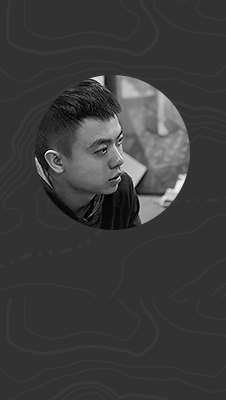
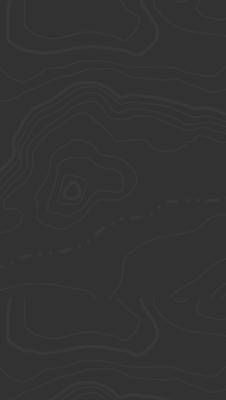
首页周达头像修改

Changed region(s): [[0.1549, 0.18, 0.8673, 0.6]]

diff --git a/app/webroot/index/css/index-min.css b/app/webroot/index/css/index-min.css
@@ -1,1 +1,1 @@
-.col-main{float:right;width:600px}.col-aside{float:left;width:226px}.slide-show .tab-btn,.show-item li b,.quick-nav li b,.books-more,.hall-more,.hall,.hall-con,.contact-info .contact-phone,.contact-info .contact-address,.contact-info .contact-qq,.contact-info .contact-path a,.contact-info .contact-path b,.opening-time ul,.guidance ul,.founder-works b,.environment .env-more b,.news-more a,.news-more b{background:url(/index/img/sprites.png) -9999px -9999px no-repeat}.slide-show{position:relative;overflow:hidden;-webkit-backface-visibility:hidden}.slide-show .tab-content{width:600px;height:400px;position:relative}.slide-show .tab-pannel{width:100%;height:100%}.slide-show .tab-btn{position:absolute;width:40px;height:40px;background-color:#fff;border-radius:20px;top:50%;margin-top:-20px;opacity:.4;-ms-filter:"alpha(Opacity=40)";-webkit-transition:all .25s linear 0s;-moz-transition:all .25s linear 0s;-o-transition:all .25s linear 0s;-ms-transition:all .25s linear 0s;transition:all .25s linear 0s}.slide-show .tab-btn-prev{left:30px;background-position:17px 15px}.slide-show .tab-btn-next{right:30px;background-position:17px -14px}.slide-show-hover .tab-btn{opacity:1;-ms-filter:"alpha(Opacity=100)"}.slide-show .tab-nav-con{position:absolute;bottom:30px;z-index:100;width:100%;text-align:center}.slide-show .tab-nav-wrapper{display:inline-block;overflow:hidden;position:relative;border-radius:5px;height:14px;padding:6px 18px}.slide-show .tab-nav{position:relative;z-index:110}.slide-show .tab-nav li{float:left;overflow:visible;margin-right:50px;position:relative}.slide-show .tab-nav .tab-nav-last{margin-right:0}.slide-show .tab-nav li a{position:relative;z-index:50;display:block;height:14px;width:14px;line-height:14px;border-radius:7px;background:#5c5c5c;-webkit-transition:all .1s linear 0s;-moz-transition:all .1s linear 0s;-o-transition:all .1s linear 0s;-ms-transition:all .1s linear 0s;transition:all .1s linear 0s;-webkit-backface-visibility:hidden}.slide-show .tab-nav li.lighted a{background:#fff}.slide-show .tab-nav-bar{position:absolute;top:10px;left:0;width:100%;z-index:40}.slide-show .tab-nav-bar-con{padding:0 30px;position:relative}.slide-show .tab-nav-bar-night{background:#5c5c5c;height:6px}.slide-show .tab-nav-bar-light{background:#fff;height:6px;position:absolute;left:30px;top:0;width:0;-webkit-transition:width .1s linear 0s;-moz-transition:width .1s linear 0s;-o-transition:width .1s linear 0s;-ms-transition:width .1s linear 0s;transition:width .1s linear 0s;-webkit-backface-visibility:hidden}.slide-show .tab-nav-mask{position:absolute;top:0;left:0;width:100%;height:26px;background:#000;opacity:.75;-ms-filter:"alpha(Opacity=75)"}.about-zd{font:14px/26px "Microsoft yahei","微软雅黑","黑体";margin-top:30px}.about-zd header{float:left;margin-right:20px;margin-top:6px;width:190px;height:77px}.about-zd hgroup{text-align:right;font-weight:700}.about-zd hgroup h2{font-size:26px;text-transform:uppercase}.about-zd hgroup p{font-size:16px;margin-top:2px;color:#e90011}.about-zd div{padding-top:1px;overflow:hidden;*zoom:1}.show-category{font:14px/2 "Microsoft yahei","微软雅黑","黑体";margin-top:10px}.show-item{float:left;box-shadow:0 0 5px #ccc;margin-right:12px;margin-top:10px;margin-bottom:20px;width:188px;background:#fff;border-bottom:5px solid #e90011}.show-con{border:1px solid #e0e0e0;border-bottom:0;padding:2px}.show-item h3{font-size:20px;vertical-align:bottom;padding:0 11px;font-weight:700}.show-item h3 em{font-size:14px;text-transform:uppercase;margin-left:5px;color:#a6a6a6;font-weight:400}.show-item-first{clear:both}.show-item-last{margin-right:0}.show-item-blue{border-bottom-color:#1290cb}.show-image{width:100%;height:236px;text-align:center;overflow:hidden}.show-item ul{padding:0 11px 6px 22px;margin-top:3px;min-height:56px}.show-item-tall ul{min-height:112px}.show-item li{position:relative}.show-item li a{display:inline-block;padding-left:11px;*display:inline;*zoom:1}.show-item li b{position:absolute;left:0;top:10px;background-position:-78px -114px;width:4px;height:8px;-webkit-transition:left .1s linear 0s;-moz-transition:left .1s linear 0s;-o-transition:left .1s linear 0s;-ms-transition:left .1s linear 0s;transition:left .1s linear 0s}.show-item li a:hover{text-decoration:none;color:#e90011}.show-item li a:hover b{background-position:-78px -140px;left:3px}.show-image a{opacity:1;-ms-filter:"alpha(Opacity=100)";-webkit-transition:opacity .1s linear 0s;-moz-transition:opacity .1s linear 0s;-o-transition:opacity .1s linear 0s;-ms-transition:opacity .1s linear 0s;transition:opacity .1s linear 0s}.show-image a:hover{opacity:.8;-ms-filter:"alpha(Opacity=80)"}.class-group{font:14px/26px "Microsoft yahei","微软雅黑","黑体"}.class-group h2{font-size:20px;line-height:2;font-weight:700}.class-con{margin-top:4px;position:relative}.class-desc{width:400px;margin-bottom:38px}.class-side{position:absolute;left:415px;top:30px;width:185px;overflow:hidden}.teachers{margin-top:35px}.teachers h2{font:20px/2 "Microsoft yahei","微软雅黑","黑体";font-weight:700}.teachers-con{margin-top:10px;font-size:12px;line-height:22px;text-align:center}.teachers-con li{float:left}.other-teachers{margin-top:6px}.other-teachers li{margin-right:5px}.teacher-link{display:block;position:relative}.teacher-image{display:block;overflow:hidden}.teacher-name{display:block;font-size:14px;font-weight:700;margin-top:5px;margin-bottom:5px}.teacher-school,.teacher-title{color:#666}.teacher-link em{display:block;width:109px;height:109px;border:3px solid #e90011;position:absolute;top:0;left:0;opacity:0;-ms-filter:"alpha(Opacity=0)"}.main-teachers .teacher-image{border-top:5px solid #e90011;width:120px;height:240px}.main-teachers .teacher-even .teacher-image{border-top:0;border-bottom:5px solid #e90011;padding-top:67px}.other-teachers .teacher-image{width:115px;height:115px}.teacher-link{opacity:1;-ms-filter:"alpha(Opacity=100)";-webkit-transition:all .1s linear 0s;-moz-transition:all .1s linear 0s;-o-transition:all .1s linear 0s;-ms-transition:all .1s linear 0s;transition:all .1s linear 0s}.teacher-link em{-webkit-transition:all .1s linear 0s;-moz-transition:all .1s linear 0s;-o-transition:all .1s linear 0s;-ms-transition:all .1s linear 0s;transition:all .1s linear 0s}.teacher-link:hover{opacity:.8;color:#e90011;text-decoration:none;-ms-filter:"alpha(Opacity=80)"}.teacher-link:hover em{opacity:1;-ms-filter:"alpha(Opacity=100)"}.environment{margin-top:25px;font:20px/2 "Microsoft yahei","微软雅黑","黑体"}.environment h2{font-weight:700}.environment-con{margin-top:10px;position:relative}.environment li{width:150px;height:150px;overflow:hidden;float:left;text-align:center;line-height:150px;color:#fff}.environment li a{display:block;width:100%;height:100%;overflow:hidden;color:#fff}.environment .env-long{height:300px;line-height:300px}.environment .env-wide{width:300px}.environment .env-desc{background:#e90011}.environment .env-desc:hover{background:#ec1f2e}.environment .env-more{line-height:30px}.environment .env-more strong{display:block;margin-top:53px}.environment .env-more em{position:relative;padding-left:47px;text-align:left;font-size:14px;line-height:24px;display:block;text-transform:uppercase}.environment .env-more b{position:absolute;width:15px;height:10px;overflow:hidden;background-position:0 -371px;right:36px;top:7px;-webkit-transition:right .1s linear 0s;-moz-transition:right .1s linear 0s;-o-transition:right .1s linear 0s;-ms-transition:right .1s linear 0s;transition:right .1s linear 0s}.environment li a:hover{color:#fff;text-decoration:none}.environment li a:hover b{right:33px}.environment .env-image{opacity:1;-ms-filter:"alpha(Opacity=100)";-webkit-transition:opacity .1s linear 0s;-moz-transition:opacity .1s linear 0s;-o-transition:opacity .1s linear 0s;-ms-transition:opacity .1s linear 0s;transition:opacity .1s linear 0s}.environment .env-image:hover{opacity:.7;-ms-filter:"alpha(Opacity=70)"}.books{margin-top:30px;position:relative}.books h2{font:20px/2 "Microsoft yahei","微软雅黑","黑体";font-weight:700}.books-con{margin-top:10px;width:600px;height:213px;overflow:hidden;position:relative}.books ul{width:617px;height:213px;position:absolute;left:0;top:0}.books li{float:left;width:135px;height:211px;overflow:hidden;border:1px solid #d2d2d2;margin-right:17px;border-radius:2px;box-shadow:0 0 5px #ccc;position:relative}.books .book-last{margin-right:0}.books li span{opacity:1;display:block;border:1px solid #f2f2f2;padding:3px;overflow:hidden;-ms-filter:"alpha(Opacity=100)";-webkit-transition:opacity .1s linear 0s;-moz-transition:opacity .1s linear 0s;-o-transition:opacity .1s linear 0s;-ms-transition:opacity .1s linear 0s;transition:opacity .1s linear 0s}.books li span:hover{opacity:.8;-ms-filter:"alpha(Opacity=80)"}.books-more{position:absolute;width:68px;height:12px;text-indent:-9999px;top:16px;right:0;background-position:0 -114px}.books-more:hover{background-position:0 -136px}.hall{position:relative;margin-top:20px;font:18px/32px "Microsoft yahei","微软雅黑","黑体";padding:50px 30px 0;background-position:0 -710px}.hall h2{display:none}.hall-con{padding:30px 38px 80px;background-color:#fff;background-position:-60px 296px;position:relative}.hall-list{height:256px;overflow:hidden;position:relative}.hall-list ul{position:absolute;width:100%}.hall-mask-up{background:url(/index/img/mask-up.png) 0 0 no-repeat;width:473px;height:55px;position:absolute;left:38px;top:0}.hall-mask{background:url(/index/img/mask.png) 0 0 no-repeat;width:473px;height:55px;position:absolute;left:38px;bottom:50px}.hall-more{position:absolute;width:68px;height:12px;text-indent:-9999px;top:16px;right:0;background-position:0 -114px}.hall-more:hover{background-position:0 -136px}.contact{font:14px/22px "Microsoft yahei","微软雅黑","黑体"}.contact h2{font-size:20px;line-height:2;font-weight:700}.contact-con{margin-top:15px}.contact-map{float:left;width:258px;height:178px;padding:3px;background:#fff;margin-right:32px;box-shadow:0 0 2px #ccc;position:relative}.contact-click{position:absolute;font-size:12px;right:8px;bottom:5px}.contact-info{overflow:hidden;*zoom:1}.contact-info p{padding-left:32px;margin-bottom:8px}.contact-info .contact-phone{background-position:0 -394px}.contact-info .contact-address{background-position:-421px -158px}.contact-info .contact-qq{background-position:0 -157px}.contact-info .contact-path{padding-top:16px}.contact-info .contact-path a{opacity:1;float:right;width:102px;padding-left:16px;height:28px;line-height:28px;color:#fff;background-position:0 -255px;position:relative;-ms-filter:"alpha(Opacity=100)";-webkit-transition:opacity .1s linear 0s;-moz-transition:opacity .1s linear 0s;-o-transition:opacity .1s linear 0s;-ms-transition:opacity .1s linear 0s;transition:opacity .1s linear 0s}.contact-info .contact-path b{position:absolute;width:6px;height:10px;overflow:hidden;background-position:0 -341px;top:9px;right:12px;-webkit-transition:right .1s linear 0s;-moz-transition:right .1s linear 0s;-o-transition:right .1s linear 0s;-ms-transition:right .1s linear 0s;transition:right .1s linear 0s}.contact-info .contact-path a:hover{text-decoration:none;color:#fff;opacity:.8;-ms-filter:"alpha(Opacity=80)"}.contact-info .contact-path a:hover b{right:9px}.weibo-show{background:#fff;box-shadow:0 0 10px #ccc;height:400px;overflow:hidden}.quick-nav{margin-top:22px;font:14px/28px "Microsoft yahei","微软雅黑","黑体"}.quick-nav h3{font-size:16px;line-height:18px}.quick-nav h3 strong{font-weight:700;display:block}.quick-nav h3 em{text-transform:uppercase;display:block;color:#a6a6a6;font-size:14px}.quick-nav ul{padding-left:62px;margin-top:9px;min-height:70px}.quick-nav li{position:relative}.quick-nav li a{display:inline-block;padding-left:11px;*display:inline;*zoom:1}.quick-nav li b{position:absolute;left:0;top:10px;background-position:-78px -114px;width:4px;height:8px;-webkit-transition:left .1s linear 0s;-moz-transition:left .1s linear 0s;-o-transition:left .1s linear 0s;-ms-transition:left .1s linear 0s;transition:left .1s linear 0s}.quick-nav li a:hover{text-decoration:none;color:#e90011}.quick-nav li a:hover b{background-position:-78px -140px;left:3px}.opening-time{margin-top:36px}.opening-time ul{background-position:-128px -248px}.guidance ul{background-position:-421px -248px}.founder{background:#323232 url(/index/img/founder.png) 0 0 no-repeat;color:#fff;padding:12px 15px 0;height:388px;margin-top:13px}.founder header{font-family:"Microsoft yahei","微软雅黑","黑体";text-align:center}.founder hgroup h3{font-size:22px;line-height:30px}.founder hgroup p{font-size:14px;line-height:22px}.founder-image{margin-top:15px;height:156px;width:156px;margin:0 auto;display:block;opacity:1;-ms-filter:"alpha(Opacity=100)";-webkit-transition:all .1s linear 0s;-moz-transition:all .1s linear 0s;-o-transition:all .1s linear 0s;-ms-transition:all .1s linear 0s;transition:all .1s linear 0s}.founder-image:hover{opacity:.8;-ms-filter:"alpha(Opacity=80)"}.founder-desc{text-indent:2em;line-height:22px;margin-top:18px}.founder-works{display:block;position:relative;background-color:#e90011;width:100px;height:36px;line-height:36px;margin:23px auto 0;padding-left:16px;font-size:16px;font-family:"Microsoft yahei","微软雅黑","黑体";color:#fff;-webkit-transition:all .1s linear 0s;-moz-transition:all .1s linear 0s;-o-transition:all .1s linear 0s;-ms-transition:all .1s linear 0s;transition:all .1s linear 0s}.founder-works b{position:absolute;width:15px;height:10px;overflow:hidden;background-position:0 -371px;right:13px;top:13px;-webkit-transition:right .1s linear 0s;-moz-transition:right .1s linear 0s;-o-transition:right .1s linear 0s;-ms-transition:right .1s linear 0s;transition:right .1s linear 0s}.founder-works:hover{text-decoration:none;color:#fff;background-color:#ec1f2e}.founder-works:hover b{right:10px}.news li{margin-top:30px;padding-bottom:10px}.news img{max-width:100%;width:100%}.news-image{display:block;-webkit-transition:all .1s linear 0s;-moz-transition:all .1s linear 0s;-o-transition:all .1s linear 0s;-ms-transition:all .1s linear 0s;transition:all .1s linear 0s}.news-title{margin-top:8px;font-weight:700;display:block}.news-image:hover{text-decoration:none;color:#e90011;opacity:.8;-ms-filter:"alpha(Opacity=80)"}.news-date{color:#787878}.news-desc{margin-top:7px;color:#787878}.news-more{margin-top:16px}.news-more a{opacity:1;-ms-filter:"alpha(Opacity=80)";float:right;width:90px;padding-left:12px;height:28px;line-height:28px;position:relative;font-size:16px;color:#fff;font-family:"Microsoft yahei","微软雅黑","黑体";text-transform:uppercase;background-color:#e90011;background-position:0 -293px;-webkit-transition:opacity .1s linear 0s;-moz-transition:opacity .1s linear 0s;-o-transition:opacity .1s linear 0s;-ms-transition:opacity .1s linear 0s;transition:opacity .1s linear 0s}.news-more b{position:absolute;width:6px;height:10px;overflow:hidden;background-position:0 -341px;top:9px;right:12px;-webkit-transition:right .1s linear 0s;-moz-transition:right .1s linear 0s;-o-transition:right .1s linear 0s;-ms-transition:right .1s linear 0s;transition:right .1s linear 0s}.news-more a:hover{text-decoration:none;color:#fff;opacity:.8;-ms-filter:"alpha(Opacity=80)"}.news-more a:hover b{right:9px}
+.col-main{float:right;width:600px}.col-aside{float:left;width:226px}.slide-show .tab-btn,.show-item li b,.quick-nav li b,.books-more,.hall-more,.hall,.hall-con,.contact-info .contact-phone,.contact-info .contact-address,.contact-info .contact-qq,.contact-info .contact-path a,.contact-info .contact-path b,.opening-time ul,.guidance ul,.founder-works b,.environment .env-more b,.news-more a,.news-more b{background:url(/index/img/sprites.png) -9999px -9999px no-repeat}.slide-show{position:relative;overflow:hidden;-webkit-backface-visibility:hidden}.slide-show .tab-content{width:600px;height:400px;position:relative}.slide-show .tab-pannel{width:100%;height:100%}.slide-show .tab-btn{position:absolute;width:40px;height:40px;background-color:#fff;border-radius:20px;top:50%;margin-top:-20px;opacity:.4;-ms-filter:"alpha(Opacity=40)";-webkit-transition:all .25s linear 0s;-moz-transition:all .25s linear 0s;-o-transition:all .25s linear 0s;-ms-transition:all .25s linear 0s;transition:all .25s linear 0s}.slide-show .tab-btn-prev{left:30px;background-position:17px 15px}.slide-show .tab-btn-next{right:30px;background-position:17px -14px}.slide-show-hover .tab-btn{opacity:1;-ms-filter:"alpha(Opacity=100)"}.slide-show .tab-nav-con{position:absolute;bottom:30px;z-index:100;width:100%;text-align:center}.slide-show .tab-nav-wrapper{display:inline-block;overflow:hidden;position:relative;border-radius:5px;height:14px;padding:6px 18px}.slide-show .tab-nav{position:relative;z-index:110}.slide-show .tab-nav li{float:left;overflow:visible;margin-right:50px;position:relative}.slide-show .tab-nav .tab-nav-last{margin-right:0}.slide-show .tab-nav li a{position:relative;z-index:50;display:block;height:14px;width:14px;line-height:14px;border-radius:7px;background:#5c5c5c;-webkit-transition:all .1s linear 0s;-moz-transition:all .1s linear 0s;-o-transition:all .1s linear 0s;-ms-transition:all .1s linear 0s;transition:all .1s linear 0s;-webkit-backface-visibility:hidden}.slide-show .tab-nav li.lighted a{background:#fff}.slide-show .tab-nav-bar{position:absolute;top:10px;left:0;width:100%;z-index:40}.slide-show .tab-nav-bar-con{padding:0 30px;position:relative}.slide-show .tab-nav-bar-night{background:#5c5c5c;height:6px}.slide-show .tab-nav-bar-light{background:#fff;height:6px;position:absolute;left:30px;top:0;width:0;-webkit-transition:width .1s linear 0s;-moz-transition:width .1s linear 0s;-o-transition:width .1s linear 0s;-ms-transition:width .1s linear 0s;transition:width .1s linear 0s;-webkit-backface-visibility:hidden}.slide-show .tab-nav-mask{position:absolute;top:0;left:0;width:100%;height:26px;background:#000;opacity:.75;-ms-filter:"alpha(Opacity=75)"}.about-zd{font:14px/26px "Microsoft yahei","微软雅黑","黑体";margin-top:30px}.about-zd header{float:left;margin-right:20px;margin-top:6px;width:190px;height:77px}.about-zd hgroup{text-align:right;font-weight:700}.about-zd hgroup h2{font-size:26px;text-transform:uppercase}.about-zd hgroup p{font-size:16px;margin-top:2px;color:#e90011}.about-zd div{padding-top:1px;overflow:hidden;*zoom:1}.show-category{font:14px/2 "Microsoft yahei","微软雅黑","黑体";margin-top:10px}.show-item{float:left;box-shadow:0 0 5px #ccc;margin-right:12px;margin-top:10px;margin-bottom:20px;width:188px;background:#fff;border-bottom:5px solid #e90011}.show-con{border:1px solid #e0e0e0;border-bottom:0;padding:2px}.show-item h3{font-size:20px;vertical-align:bottom;padding:0 11px;font-weight:700}.show-item h3 em{font-size:14px;text-transform:uppercase;margin-left:5px;color:#a6a6a6;font-weight:400}.show-item-first{clear:both}.show-item-last{margin-right:0}.show-item-blue{border-bottom-color:#1290cb}.show-image{width:100%;height:236px;text-align:center;overflow:hidden}.show-item ul{padding:0 11px 6px 22px;margin-top:3px;min-height:56px}.show-item-tall ul{min-height:112px}.show-item li{position:relative}.show-item li a{display:inline-block;padding-left:11px;*display:inline;*zoom:1}.show-item li b{position:absolute;left:0;top:10px;background-position:-78px -114px;width:4px;height:8px;-webkit-transition:left .1s linear 0s;-moz-transition:left .1s linear 0s;-o-transition:left .1s linear 0s;-ms-transition:left .1s linear 0s;transition:left .1s linear 0s}.show-item li a:hover{text-decoration:none;color:#e90011}.show-item li a:hover b{background-position:-78px -140px;left:3px}.show-image a{opacity:1;-ms-filter:"alpha(Opacity=100)";-webkit-transition:opacity .1s linear 0s;-moz-transition:opacity .1s linear 0s;-o-transition:opacity .1s linear 0s;-ms-transition:opacity .1s linear 0s;transition:opacity .1s linear 0s}.show-image a:hover{opacity:.8;-ms-filter:"alpha(Opacity=80)"}.class-group{font:14px/26px "Microsoft yahei","微软雅黑","黑体"}.class-group h2{font-size:20px;line-height:2;font-weight:700}.class-con{margin-top:4px;position:relative}.class-desc{width:400px;margin-bottom:38px}.class-side{position:absolute;left:415px;top:30px;width:185px;overflow:hidden}.teachers{margin-top:35px}.teachers h2{font:20px/2 "Microsoft yahei","微软雅黑","黑体";font-weight:700}.teachers-con{margin-top:10px;font-size:12px;line-height:22px;text-align:center}.teachers-con li{float:left}.other-teachers{margin-top:6px}.other-teachers li{margin-right:5px}.teacher-link{display:block;position:relative}.teacher-image{display:block;overflow:hidden}.teacher-name{display:block;font-size:14px;font-weight:700;margin-top:5px;margin-bottom:5px}.teacher-school,.teacher-title{color:#666}.teacher-link em{display:block;width:109px;height:109px;border:3px solid #e90011;position:absolute;top:0;left:0;opacity:0;-ms-filter:"alpha(Opacity=0)"}.main-teachers .teacher-image{border-top:5px solid #e90011;width:120px;height:240px}.main-teachers .teacher-even .teacher-image{border-top:0;border-bottom:5px solid #e90011;padding-top:67px}.other-teachers .teacher-image{width:115px;height:115px}.teacher-link{opacity:1;-ms-filter:"alpha(Opacity=100)";-webkit-transition:all .1s linear 0s;-moz-transition:all .1s linear 0s;-o-transition:all .1s linear 0s;-ms-transition:all .1s linear 0s;transition:all .1s linear 0s}.teacher-link em{-webkit-transition:all .1s linear 0s;-moz-transition:all .1s linear 0s;-o-transition:all .1s linear 0s;-ms-transition:all .1s linear 0s;transition:all .1s linear 0s}.teacher-link:hover{opacity:.8;color:#e90011;text-decoration:none;-ms-filter:"alpha(Opacity=80)"}.teacher-link:hover em{opacity:1;-ms-filter:"alpha(Opacity=100)"}.environment{margin-top:25px;font:20px/2 "Microsoft yahei","微软雅黑","黑体"}.environment h2{font-weight:700}.environment-con{margin-top:10px;position:relative}.environment li{width:150px;height:150px;overflow:hidden;float:left;text-align:center;line-height:150px;color:#fff}.environment li a{display:block;width:100%;height:100%;overflow:hidden;color:#fff}.environment .env-long{height:300px;line-height:300px}.environment .env-wide{width:300px}.environment .env-desc{background:#e90011}.environment .env-desc:hover{background:#ec1f2e}.environment .env-more{line-height:30px}.environment .env-more strong{display:block;margin-top:53px}.environment .env-more em{position:relative;padding-left:47px;text-align:left;font-size:14px;line-height:24px;display:block;text-transform:uppercase}.environment .env-more b{position:absolute;width:15px;height:10px;overflow:hidden;background-position:0 -371px;right:36px;top:7px;-webkit-transition:right .1s linear 0s;-moz-transition:right .1s linear 0s;-o-transition:right .1s linear 0s;-ms-transition:right .1s linear 0s;transition:right .1s linear 0s}.environment li a:hover{color:#fff;text-decoration:none}.environment li a:hover b{right:33px}.environment .env-image{opacity:1;-ms-filter:"alpha(Opacity=100)";-webkit-transition:opacity .1s linear 0s;-moz-transition:opacity .1s linear 0s;-o-transition:opacity .1s linear 0s;-ms-transition:opacity .1s linear 0s;transition:opacity .1s linear 0s}.environment .env-image:hover{opacity:.7;-ms-filter:"alpha(Opacity=70)"}.books{margin-top:30px;position:relative}.books h2{font:20px/2 "Microsoft yahei","微软雅黑","黑体";font-weight:700}.books-con{margin-top:10px;width:600px;height:213px;overflow:hidden;position:relative}.books ul{width:617px;height:213px;position:absolute;left:0;top:0}.books li{float:left;width:135px;height:211px;overflow:hidden;border:1px solid #d2d2d2;margin-right:17px;border-radius:2px;box-shadow:0 0 5px #ccc;position:relative}.books .book-last{margin-right:0}.books li span{opacity:1;display:block;border:1px solid #f2f2f2;padding:3px;overflow:hidden;-ms-filter:"alpha(Opacity=100)";-webkit-transition:opacity .1s linear 0s;-moz-transition:opacity .1s linear 0s;-o-transition:opacity .1s linear 0s;-ms-transition:opacity .1s linear 0s;transition:opacity .1s linear 0s}.books li span:hover{opacity:.8;-ms-filter:"alpha(Opacity=80)"}.books-more{position:absolute;width:68px;height:12px;text-indent:-9999px;top:16px;right:0;background-position:0 -114px}.books-more:hover{background-position:0 -136px}.hall{position:relative;margin-top:20px;font:18px/32px "Microsoft yahei","微软雅黑","黑体";padding:50px 30px 0;background-position:0 -710px}.hall h2{display:none}.hall-con{padding:30px 38px 80px;background-color:#fff;background-position:-60px 296px;position:relative}.hall-list{height:256px;overflow:hidden;position:relative}.hall-list ul{position:absolute;width:100%}.hall-mask-up{background:url(/index/img/mask-up.png) 0 0 no-repeat;width:473px;height:55px;position:absolute;left:38px;top:0}.hall-mask{background:url(/index/img/mask.png) 0 0 no-repeat;width:473px;height:55px;position:absolute;left:38px;bottom:50px}.hall-more{position:absolute;width:68px;height:12px;text-indent:-9999px;top:16px;right:0;background-position:0 -114px}.hall-more:hover{background-position:0 -136px}.contact{font:14px/22px "Microsoft yahei","微软雅黑","黑体"}.contact h2{font-size:20px;line-height:2;font-weight:700}.contact-con{margin-top:15px}.contact-map{float:left;width:258px;height:178px;padding:3px;background:#fff;margin-right:32px;box-shadow:0 0 2px #ccc;position:relative}.contact-click{position:absolute;font-size:12px;right:8px;bottom:5px}.contact-info{overflow:hidden;*zoom:1}.contact-info p{padding-left:32px;margin-bottom:8px}.contact-info .contact-phone{background-position:0 -394px}.contact-info .contact-address{background-position:-421px -158px}.contact-info .contact-qq{background-position:0 -157px}.contact-info .contact-path{padding-top:16px}.contact-info .contact-path a{opacity:1;float:right;width:102px;padding-left:16px;height:28px;line-height:28px;color:#fff;background-position:0 -255px;position:relative;-ms-filter:"alpha(Opacity=100)";-webkit-transition:opacity .1s linear 0s;-moz-transition:opacity .1s linear 0s;-o-transition:opacity .1s linear 0s;-ms-transition:opacity .1s linear 0s;transition:opacity .1s linear 0s}.contact-info .contact-path b{position:absolute;width:6px;height:10px;overflow:hidden;background-position:0 -341px;top:9px;right:12px;-webkit-transition:right .1s linear 0s;-moz-transition:right .1s linear 0s;-o-transition:right .1s linear 0s;-ms-transition:right .1s linear 0s;transition:right .1s linear 0s}.contact-info .contact-path a:hover{text-decoration:none;color:#fff;opacity:.8;-ms-filter:"alpha(Opacity=80)"}.contact-info .contact-path a:hover b{right:9px}.weibo-show{background:#fff;box-shadow:0 0 10px #ccc;height:400px;overflow:hidden}.quick-nav{margin-top:22px;font:14px/28px "Microsoft yahei","微软雅黑","黑体"}.quick-nav h3{font-size:16px;line-height:18px}.quick-nav h3 strong{font-weight:700;display:block}.quick-nav h3 em{text-transform:uppercase;display:block;color:#a6a6a6;font-size:14px}.quick-nav ul{padding-left:62px;margin-top:9px;min-height:70px}.quick-nav li{position:relative}.quick-nav li a{display:inline-block;padding-left:11px;*display:inline;*zoom:1}.quick-nav li b{position:absolute;left:0;top:10px;background-position:-78px -114px;width:4px;height:8px;-webkit-transition:left .1s linear 0s;-moz-transition:left .1s linear 0s;-o-transition:left .1s linear 0s;-ms-transition:left .1s linear 0s;transition:left .1s linear 0s}.quick-nav li a:hover{text-decoration:none;color:#e90011}.quick-nav li a:hover b{background-position:-78px -140px;left:3px}.opening-time{margin-top:36px}.opening-time ul{background-position:-128px -248px}.guidance ul{background-position:-421px -248px}.founder{background:#323232 url(/index/img/founder.png) 0 0 no-repeat;color:#fff;padding:12px 15px 0;height:388px;margin-top:13px}.founder header{font-family:"Microsoft yahei","微软雅黑","黑体";text-align:center}.founder hgroup h3{font-size:22px;line-height:30px}.founder hgroup p{font-size:14px;line-height:22px}.founder-image{margin-top:16px;height:155px;width:155px;text-decoration:none;background:url(/index/img/zdavartar.png) 0 0 no-repeat;margin:0 auto;display:block;opacity:1;-ms-filter:"alpha(Opacity=100)";-webkit-transition:all .1s linear 0s;-moz-transition:all .1s linear 0s;-o-transition:all .1s linear 0s;-ms-transition:all .1s linear 0s;transition:all .1s linear 0s}.founder-image:hover{text-decoration:none;opacity:.8;-ms-filter:"alpha(Opacity=80)"}.founder-desc{text-indent:2em;line-height:22px;margin-top:19px}.founder-works{display:block;position:relative;background-color:#e90011;width:100px;height:36px;line-height:36px;margin:23px auto 0;padding-left:16px;font-size:16px;font-family:"Microsoft yahei","微软雅黑","黑体";color:#fff;-webkit-transition:all .1s linear 0s;-moz-transition:all .1s linear 0s;-o-transition:all .1s linear 0s;-ms-transition:all .1s linear 0s;transition:all .1s linear 0s}.founder-works b{position:absolute;width:15px;height:10px;overflow:hidden;background-position:0 -371px;right:13px;top:13px;-webkit-transition:right .1s linear 0s;-moz-transition:right .1s linear 0s;-o-transition:right .1s linear 0s;-ms-transition:right .1s linear 0s;transition:right .1s linear 0s}.founder-works:hover{text-decoration:none;color:#fff;background-color:#ec1f2e}.founder-works:hover b{right:10px}.news li{margin-top:30px;padding-bottom:10px}.news img{max-width:100%;width:100%}.news-image{display:block;-webkit-transition:all .1s linear 0s;-moz-transition:all .1s linear 0s;-o-transition:all .1s linear 0s;-ms-transition:all .1s linear 0s;transition:all .1s linear 0s}.news-title{margin-top:8px;font-weight:700;display:block}.news-image:hover{text-decoration:none;color:#e90011;opacity:.8;-ms-filter:"alpha(Opacity=80)"}.news-date{color:#787878}.news-desc{margin-top:7px;color:#787878}.news-more{margin-top:16px}.news-more a{opacity:1;-ms-filter:"alpha(Opacity=80)";float:right;width:90px;padding-left:12px;height:28px;line-height:28px;position:relative;font-size:16px;color:#fff;font-family:"Microsoft yahei","微软雅黑","黑体";text-transform:uppercase;background-color:#e90011;background-position:0 -293px;-webkit-transition:opacity .1s linear 0s;-moz-transition:opacity .1s linear 0s;-o-transition:opacity .1s linear 0s;-ms-transition:opacity .1s linear 0s;transition:opacity .1s linear 0s}.news-more b{position:absolute;width:6px;height:10px;overflow:hidden;background-position:0 -341px;top:9px;right:12px;-webkit-transition:right .1s linear 0s;-moz-transition:right .1s linear 0s;-o-transition:right .1s linear 0s;-ms-transition:right .1s linear 0s;transition:right .1s linear 0s}.news-more a:hover{text-decoration:none;color:#fff;opacity:.8;-ms-filter:"alpha(Opacity=80)"}.news-more a:hover b{right:9px}

diff --git a/app/webroot/index/css/index.css b/app/webroot/index/css/index.css
@@ -278,16 +278,16 @@
 .founder hgroup h3 {font-size:22px;line-height:30px;}
 .founder hgroup p {font-size:14px;line-height:22px;}
 .founder-image {
-    margin-top:15px;height:156px;width:156px;margin:0 auto;display:block;opacity:1;-ms-filter:"progid:DXImageTransform.Microsoft.Alpha(Opacity=100)";
+    margin-top:16px;height:155px;width:155px;text-decoration:none;background:url("/index/img/zdavartar.png") 0 0 no-repeat;margin:0 auto;display:block;opacity:1;-ms-filter:"progid:DXImageTransform.Microsoft.Alpha(Opacity=100)";
     -webkit-transition:all 0.1s linear 0s;
     -moz-transition:all 0.1s linear 0s;
     -o-transition:all 0.1s linear 0s;
     -ms-transition:all 0.1s linear 0s;
     transition:all 0.1s linear 0s;
 }
-.founder-image:hover {opacity:0.8;-ms-filter:"progid:DXImageTransform.Microsoft.Alpha(Opacity=80)";}
+.founder-image:hover {text-decoration:none;opacity:0.8;-ms-filter:"progid:DXImageTransform.Microsoft.Alpha(Opacity=80)";}
 
-.founder-desc {text-indent:2em;line-height:22px;margin-top:18px;}
+.founder-desc {text-indent:2em;line-height:22px;margin-top:19px;}
 .founder-works {
     display:block;position:relative;background-color:#e90011;width:100px;height:36px;line-height:36px;margin:23px auto 0;padding-left:16px;font-size:16px;font-family:"Microsoft yahei","微软雅黑","黑体";color:#fff;
     -webkit-transition:all 0.1s linear 0s;
